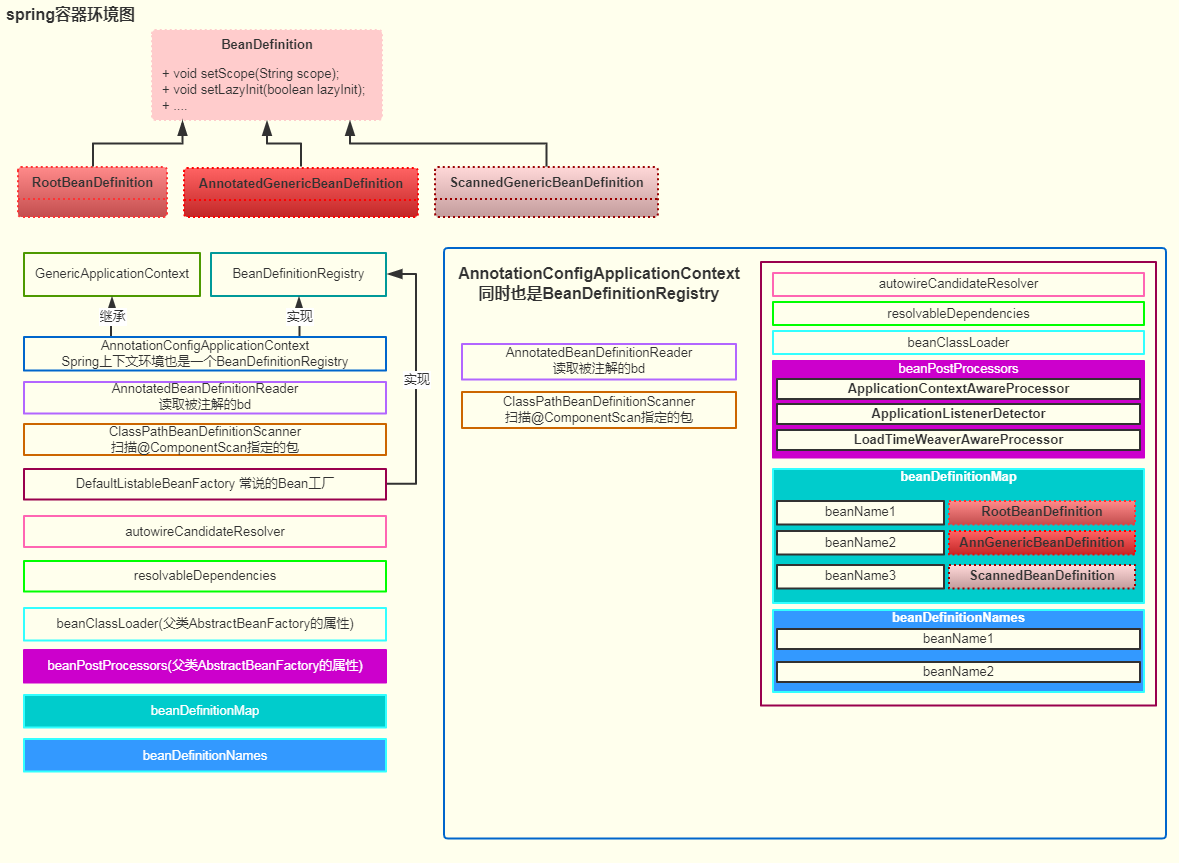
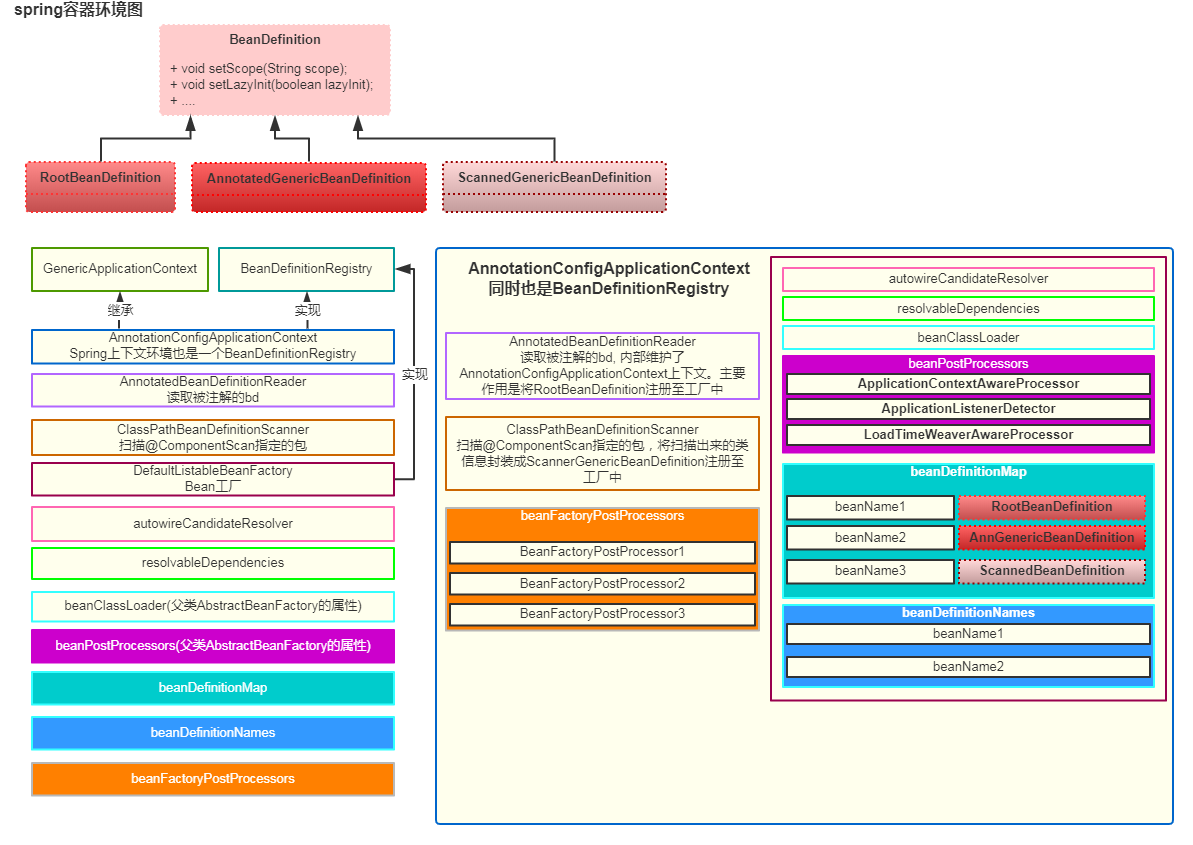
更新源码学习README.md文件, 并新增BeanFactoryPostProcessor后置处理器测试类

Changed region(s): [[0.0, 0.2769, 1.0, 0.9846], [0.0, 0.0308, 0.5496, 0.2462], [0.0, 0.0, 0.1221, 0.0308]]

diff --git a/resourcecode-study/src/main/java/com/eugene/sumarry/resourcecodestudy/annocontext/registersimplebean/MyBeanDefinitionRegistryPostProcessor.java b/resourcecode-study/src/main/java/com/eugene/sumarry/resourcecodestudy/annocontext/registersimplebean/MyBeanDefinitionRegistryPostProcessor.java
@@ -1,0 +1,19 @@
+package com.eugene.sumarry.resourcecodestudy.annocontext.registersimplebean;
+
+import org.springframework.beans.BeansException;
+import org.springframework.beans.factory.config.ConfigurableListableBeanFactory;
+import org.springframework.beans.factory.support.BeanDefinitionRegistry;
+import org.springframework.beans.factory.support.BeanDefinitionRegistryPostProcessor;
+
+public class MyBeanDefinitionRegistryPostProcessor implements BeanDefinitionRegistryPostProcessor {
+
+    @Override
+    public void postProcessBeanDefinitionRegistry(BeanDefinitionRegistry beanDefinitionRegistry) throws BeansException {
+        System.out.println("MyBeanDefinitionRegistryPostProcessor postProcessBeanDefinitionRegistry");
+    }
+
+    @Override
+    public void postProcessBeanFactory(ConfigurableListableBeanFactory configurableListableBeanFactory) throws BeansException {
+        System.out.println("MyBeanDefinitionRegistryPostProcessor postProcessBeanFactory");
+    }
+}

diff --git a/resourcecode-study/src/main/java/com/eugene/sumarry/resourcecodestudy/annocontext/registersimplebean/Test.java b/resourcecode-study/src/main/java/com/eugene/sumarry/resourcecodestudy/annocontext/registersimplebean/Test.java
@@ -1,11 +1,16 @@
 package com.eugene.sumarry.resourcecodestudy.annocontext.registersimplebean;
 
+import com.eugene.sumarry.resourcecodestudy.fbandbf.AppConfig;
 import org.springframework.context.annotation.AnnotationConfigApplicationContext;
 
 public class Test {
 
     public static void main(String[] args) {
-        AnnotationConfigApplicationContext context = new AnnotationConfigApplicationContext(SimpleBean.class);
+        AnnotationConfigApplicationContext context = new AnnotationConfigApplicationContext();
+        context.addBeanFactoryPostProcessor(new MyBeanDefinitionRegistryPostProcessor());
+        context.getBeanFactory().addBeanPostProcessor(new MyBeanPostProcessor2());
+        context.register(SimpleBean.class);
+        context.refresh();
         System.out.println(context.getBean("userDaoEugene"));
     }
 }

diff --git a/resourcecode-study/src/main/java/com/eugene/sumarry/resourcecodestudy/annocontext/registersimplebean/MyBeanFactoryPostProcessor.java b/resourcecode-study/src/main/java/com/eugene/sumarry/resourcecodestudy/annocontext/registersimplebean/MyBeanFactoryPostProcessor.java
@@ -1,0 +1,15 @@
+package com.eugene.sumarry.resourcecodestudy.annocontext.registersimplebean;
+
+import org.springframework.beans.BeansException;
+import org.springframework.beans.factory.config.BeanFactoryPostProcessor;
+import org.springframework.beans.factory.config.ConfigurableListableBeanFactory;
+import org.springframework.stereotype.Component;
+
+@Component
+public class MyBeanFactoryPostProcessor implements BeanFactoryPostProcessor {
+
+    @Override
+    public void postProcessBeanFactory(ConfigurableListableBeanFactory configurableListableBeanFactory) throws BeansException {
+        System.out.println("MyBeanFactoryPostProcessor postProcessBeanFactory");
+    }
+}

diff --git a/resourcecode-study/src/main/java/com/eugene/sumarry/resourcecodestudy/annocontext/registersimplebean/MyBeanPostProcessor2.java b/resourcecode-study/src/main/java/com/eugene/sumarry/resourcecodestudy/annocontext/registersimplebean/MyBeanPostProcessor2.java
@@ -8,7 +8,6 @@ import org.springframework.stereotype.Component;
 /**
  * 该处理器会加入到一个列表中, 然后在创建bean的时候统一调用所有的后置处理器
  */
-@Component
 public class MyBeanPostProcessor2 implements BeanPostProcessor, PriorityOrdered {
 
     @Override

diff --git a/resourcecode-study/README.md b/resourcecode-study/README.md
@@ -24,9 +24,18 @@
   1. `BeanPostProcessor`后置处理器, spring内置了太多这样的实现(目测是使用订阅者模式实现, 将所有后置处理器存入列表中, 并依次执行)，aop切面就是这么实现的
     * 实现`PriorityOrdered`接口可以控制自定义后置处理器的执行顺序, 目测是根据返回的数字来设置谁先添加到列表中去, `@Order注解不行, 已经测试过了`
     * 疑问: spring自己写的后置处理器执行顺序会被打破么？ spring自己的后置处理器是没有添加跟注册bean有关的注解, 所以它是手动添加的
+    * 在此处被触发PostProcessorRegistrationDelegate.invokeBeanFactoryPostProcessors的invokeBeanFactoryPostProcessors被触发
+      内部有多个地方调用invokeBeanFactoryPostProcessors方法, 要注意传入的参数来确定调用的是哪一种BeanPostProcessor 
     
   2. `BeanFactoryPostProcessor` 使用jdk1.8的方式来扩展, 表示这个接口可以采用流的方式进行添加, 因为有这个注解`@FunctionalInterface`
-  3. `BeanDefinitionRegistryPostProcessor` 会在`PostProcessorRegistrationDelegate.invokeBeanDefinitionRegistryPostProcessors()`中被触发
+  3. `BeanDefinitionRegistryPostProcessor` 也是在`PostProcessorRegistrationDelegate.invokeBeanDefinitionRegistryPostProcessors()`中的
+     `invokeBeanDefinitionRegistryPostProcessors`被方法
+     => 这种方式的扩展点有两种方式
+        1. 手动添加到AbstractApplicationContext的beanFactoryPostProcessors属性中, 这种方式跟spring内置beanFactoryPostProcessors处理方式一样
+        2. 直接添加@Component注解, 让spring扫描后去处理
+        
+        其实它是继承了BeanFactoryPostProcessor类, 所以BeanFactoryPostProcessor类的扩展也有这两种方式
+    
   
 ### 七. ApplicationContextAwareProcessor 后置处理器作用
   * 首先它实现了`BeanPostProcessor`接口, 在bean初始化的时候被调用, 但因为它是spring内置的bean, 所以是采用手动添加列表的方式, 没有添加注册bean有关的注解
@@ -85,23 +94,50 @@
         }
     ```
     
-#### 关于注册后置处理器的注意点
+### 八. BeanFactoryPostProcessor后置处理器的注意点
   ```text
     org.springframework.context.support.AbstractApplicationContext.refresh
       >org.springframework.context.support.AbstractApplicationContext.postProcessBeanFactory
         >PostProcessorRegistrationDelegate.invokeBeanFactoryPostProcessors(beanFactory, this.getBeanFactoryPostProcessors());
   ```
-  * 在如上的代码调用栈下, 会去调用BeanFactory的后置处理器, 但是这里只能获取到`程序员扩展spring的后置处理器`, 
-    其实就是把它跟spring内置后置处理器一样手动添加到bean工厂去
+  * 在如上的代码调用栈下, 会去调用BeanFactoryPostProcessor的后置处理器, 
+    但是这里只能获取到`程序员扩展spring的后置处理器`(其实就是把它跟spring内置后置处理器一样手动添加到bean工厂去)
     ```text
       这里的程序员扩展spring的后置处理器是什么含义呢？
-        首先要实现一个后置处理器, 要去实现BeanFactoryPostProcessor接口, 其次还要将当前类加到spring容器中去(一般添加@Component注解)。
-        但是要明白, 虽然它实现了这个功能, 但是它并不在this.getBeanFactoryPostProcessors()方法返回的列表中, 所以这样的方式并
-        不是在这里被触发的。
-        那要如何在这里触发呢？
+        首先要实现一个`BeanFactoryPostProcessor`后置处理器, 
+        要去实现BeanFactoryPostProcessor接口, 其次还要将当前
+        类加到spring容器中去(一般添加@Component注解)。但是要明
+        白, 虽然它实现了这个功能, 但是它并不在
+        this.getBeanFactoryPostProcessors()方法返回的列表中
+        (在AbstractApplicationContext类中), 所以这样的方式并
+        不是在这里被触发的。那要如何在这里触发呢？
         步骤如下:
-          1. 同样要实现BeanFactoryPostProcessor接口
-          2. 手动将后置处理器添加至工厂中, 如上下文的后置处理器: beanFactory.addBeanPostProcessor(new ApplicationContextAwareProcessor(this))
-             所以需要手动将beanFactory.addBeanPostProcessor(new 实现了BeanPostProcessor接口但没走spring bean流程的实例())
+          1. 创建一个类并实现BeanFactoryPostProcessor接口
+          2. 手动将后置处理器添加至工厂中, 
+             AnnotationConfigApplicationContext context = new AnnotationConfigApplicationContext();
+             context.addBeanFactoryPostProcessor(new MyBeanDefinitionRegistryPostProcessor());
+             context.register(SimpleBean.class);
+             context.refresh();
+             // context.refresh()方法, 一定要最后去执行, 
+             // 因为是在refresh方法中对BeanFactoryPostProcessor处理的
     ```
+  * 此时只会触发BeanDefinitionRegistryPostProcessor接口的postProcessBeanDefinitionRegistry方法, 不会触发父类的BeanPostProcessor的方法
+        目测是遍历的时候只调用了postProcessBeanDefinitionRegistry方法
+      * 部分代码如下:
+        
+        ```java
+            // beanFactoryPostProcessors就是手动调用AbstractApplicationContext类中的beanFactoryPostProcessors
+            for (BeanFactoryPostProcessor postProcessor : beanFactoryPostProcessors) {
+                if (postProcessor instanceof BeanDefinitionRegistryPostProcessor) {
+                    BeanDefinitionRegistryPostProcessor registryProcessor =
+                            (BeanDefinitionRegistryPostProcessor) postProcessor;
+                    // 这里只触发了postProcessBeanDefinitionRegistry方法
+                    registryProcessor.postProcessBeanDefinitionRegistry(registry);
+                    registryProcessors.add(registryProcessor);
+                }
+                else {
+                    regularPostProcessors.add(postProcessor);
+                }
+            }
+        ```
   
